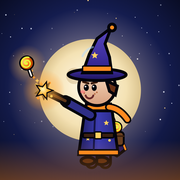
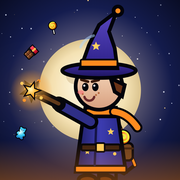
Icône : retour au gros plan de Léo, visage au centre de la lune, sans bonbon sur la baguette
Claude-Session: https://claude.ai/code/session_01AjmZAz6nShxcDmUf3n2aZH

Changed region(s): [[0.0556, 0.0278, 0.8056, 1.0], [0.0833, 0.6944, 0.1667, 0.7778], [0.25, 0.1111, 0.3333, 0.1944]]

diff --git a/index.html b/index.html
@@ -4,8 +4,8 @@
 <meta charset="utf-8">
 <meta name="viewport" content="width=device-width, initial-scale=1, viewport-fit=cover">
 <title>Sortilèges sucrés</title>
-<link rel="icon" type="image/png" sizes="32x32" href="icones/icone-32.png?v=3">
-<link rel="apple-touch-icon" href="icones/icone-180.png?v=3">
+<link rel="icon" type="image/png" sizes="32x32" href="icones/icone-32.png?v=4">
+<link rel="apple-touch-icon" href="icones/icone-180.png?v=4">
 <link rel="manifest" href="manifest.webmanifest">
 <meta name="apple-mobile-web-app-capable" content="yes">
 <meta name="mobile-web-app-capable" content="yes">
@@ -2375,7 +2375,7 @@ const fontsReady = document.fonts && document.fonts.load
 Promise.race([fontsReady, new Promise(r => setTimeout(r, 2500))]).then(start, start);
 
 /* ---------- Update button: on GitHub Pages, compare this build with version.json and offer a reload ---------- */
-const VERSION = '20261105-0149';
+const VERSION = '20261105-0151';
 (() => {
   const btn = document.getElementById('maj');
   let latest = null;
